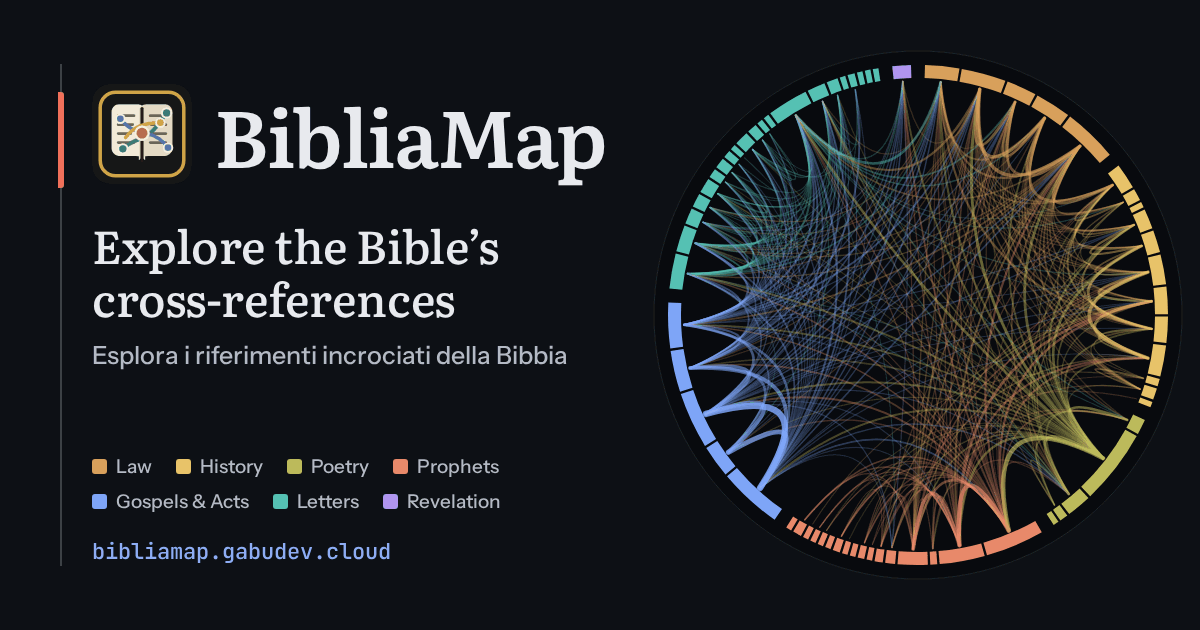
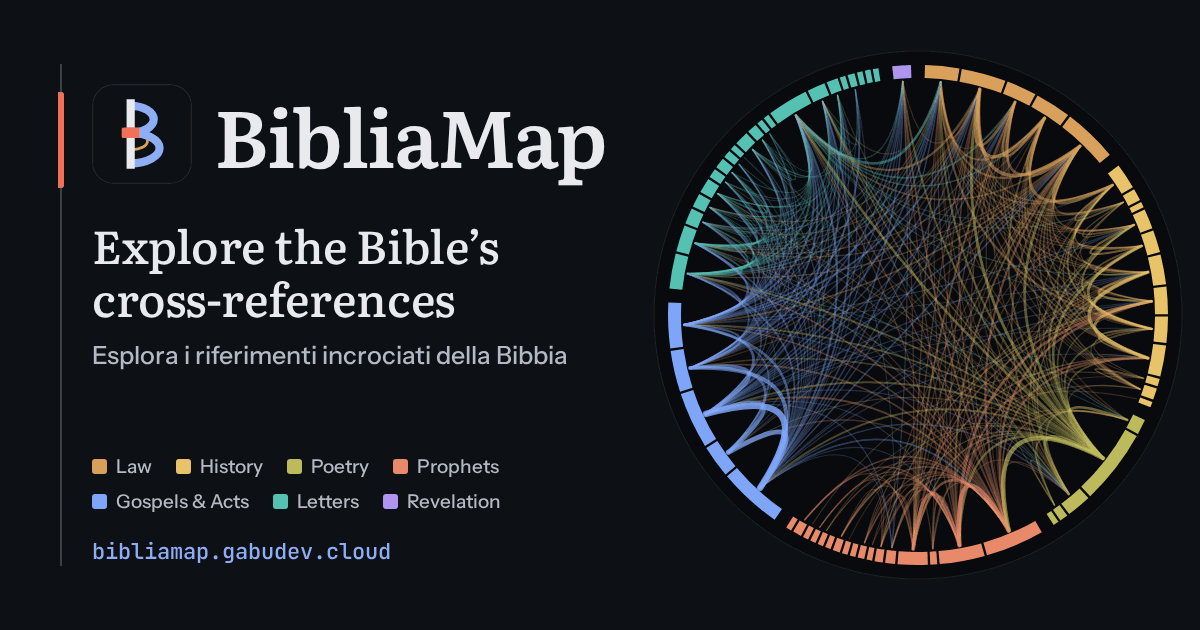
feat(share): add OG image generator to the repo, regenerate with new mark
scripts/og-image holds the generator used for the dark share cards, with
repo-relative paths and documented requirements. Both cards are
regenerated with the new mark.

Changed region(s): [[0.0617, 0.1206, 0.1542, 0.3016]]

diff --git a/scripts/og-image/gen.py b/scripts/og-image/gen.py
@@ -1,0 +1,163 @@
+"""OG cards (1200x630 + 600x600) in the 'Reference Column' dark design.
+Chord diagram from real book-to-book counts, arcs coloured by canon section with section gaps.
+usage: gen.py <book.combined.json> <icon.svg> <frontend/node_modules> <out_dir>   (run.sh passes repo-relative defaults)"""
+import json, math, os, sys
+
+matrix_path, icon_path, nm, out_dir = (os.path.abspath(p) for p in sys.argv[1:5])
+M = json.load(open(matrix_path))
+icon_svg = open(icon_path).read()
+N = len(M)
+
+# Dark values of tokens.css (light-dark(a, b) -> b)
+T = dict(
+    bg="#0d1015", sunken="#080a0e", surface="#151920", ink="#e9ebef", ink2="#b4bac6", ink3="#8a92a1",
+    line="rgba(233,235,239,.10)", line_strong="rgba(233,235,239,.22)",
+    accent="#8faef5", gilt="#e2b44c", rubric="#f0705a",
+)
+SECTIONS = [  # (key, label, colour, first book idx, last idx inclusive) 0-based
+    ("law", "Law", "#d9a05b", 0, 4),
+    ("history", "History", "#e9c46a", 5, 16),
+    ("poetry", "Poetry", "#bdbb5c", 17, 21),
+    ("prophets", "Prophets", "#e98a6b", 22, 38),
+    ("gospels", "Gospels & Acts", "#7fa6f8", 39, 43),
+    ("letters", "Letters", "#56c2b4", 44, 64),
+    ("revelation", "Revelation", "#b095f0", 65, 65),
+]
+sec_of = [0] * N
+for k, (_, _, _, a, b) in enumerate(SECTIONS):
+    for i in range(a, b + 1):
+        sec_of[i] = k
+col_of = lambda i: SECTIONS[sec_of[i]][2]
+
+W = [[(M[i][j] + M[j][i]) if i != j else 0 for j in range(N)] for i in range(N)]
+tot = [sum(r) for r in W]
+grand = sum(tot)
+
+
+def chord_svg(cx, cy, R, n_links, ring=13, book_gap=0.55, sec_gap=3.2):
+    nsec = len(SECTIONS)
+    avail = 2 * math.pi - math.radians(book_gap) * (N - nsec) - math.radians(sec_gap) * nsec
+    raw = [max(t / grand, 0.0045) for t in tot]
+    s = sum(raw)
+    widths = [r / s * avail for r in raw]
+    starts, a = [], -math.pi / 2 + math.radians(sec_gap / 2)
+    for i in range(N):
+        if i > 0:
+            a += math.radians(sec_gap if sec_of[i] != sec_of[i - 1] else book_gap)
+        starts.append(a)
+        a += widths[i]
+    mids = [starts[i] + widths[i] / 2 for i in range(N)]
+    pt = lambda ang, r: (cx + r * math.cos(ang), cy + r * math.sin(ang))
+
+    parts = [f'<circle cx="{cx}" cy="{cy}" r="{R + 14}" fill="{T["sunken"]}"/>',
+             f'<circle cx="{cx}" cy="{cy}" r="{R + 14}" fill="none" stroke="{T["line"]}" stroke-width="1"/>']
+    pairs = sorted(((W[i][j], i, j) for i in range(N) for j in range(i + 1, N) if W[i][j] > 0), reverse=True)[:n_links]
+    maxw = pairs[0][0]
+    rin = R - ring - 3
+    for w, i, j in reversed(pairs):
+        src = i if tot[i] >= tot[j] else j  # colour by the busier book's section
+        t = w / maxw
+        op = 0.12 + 0.72 * t ** 0.55
+        sw = 0.8 + 5.6 * t ** 0.8
+        x1, y1 = pt(mids[i], rin)
+        x2, y2 = pt(mids[j], rin)
+        # control point pulled toward centre; adjacent books bow less
+        d = abs(mids[i] - mids[j]) % (2 * math.pi)
+        d = min(d, 2 * math.pi - d)
+        k = 0.15 + 0.85 * (1 - d / math.pi) ** 2
+        mx, my = (x1 + x2) / 2, (y1 + y2) / 2
+        qx, qy = cx + (mx - cx) * k * 0.6, cy + (my - cy) * k * 0.6
+        parts.append(f'<path d="M{x1:.1f},{y1:.1f} Q{qx:.1f},{qy:.1f} {x2:.1f},{y2:.1f}" stroke="{col_of(src)}" '
+                     f'stroke-opacity="{op:.2f}" stroke-width="{sw:.2f}" fill="none" stroke-linecap="round"/>')
+    for i in range(N):
+        a0, a1 = starts[i], starts[i] + widths[i]
+        x0o, y0o = pt(a0, R); x1o, y1o = pt(a1, R)
+        x0i, y0i = pt(a0, R - ring); x1i, y1i = pt(a1, R - ring)
+        parts.append(f'<path d="M{x0o:.1f},{y0o:.1f} A{R},{R} 0 0 1 {x1o:.1f},{y1o:.1f} L{x1i:.1f},{y1i:.1f} '
+                     f'A{R-ring},{R-ring} 0 0 0 {x0i:.1f},{y0i:.1f}Z" fill="{col_of(i)}"/>')
+    return "\n".join(parts)
+
+
+F = f"{nm}/@fontsource-variable"
+FONTS = f"""
+@font-face{{font-family:'Literata Variable';font-weight:200 900;src:url('file://{F}/literata/files/literata-latin-wght-normal.woff2') format('woff2')}}
+@font-face{{font-family:'Instrument Sans Variable';font-weight:400 700;src:url('file://{F}/instrument-sans/files/instrument-sans-latin-wght-normal.woff2') format('woff2')}}
+@font-face{{font-family:'JetBrains Mono Variable';font-weight:100 800;src:url('file://{F}/jetbrains-mono/files/jetbrains-mono-latin-wght-normal.woff2') format('woff2')}}
+"""
+BASE_CSS = FONTS + f"""
+*{{margin:0;padding:0;box-sizing:border-box}}
+html,body{{background:{T['bg']}}}
+body{{font-family:'Instrument Sans Variable',sans-serif;color:{T['ink']};-webkit-font-smoothing:antialiased}}
+.card{{position:relative;overflow:hidden;background:{T['bg']}}}
+.serif{{font-family:'Literata Variable',serif}}
+.name{{font-family:'Literata Variable',serif;font-weight:600;letter-spacing:-.018em;line-height:1;color:{T['ink']}}}
+.tag{{font-family:'Literata Variable',serif;font-weight:500;line-height:1.15;color:{T['ink']};letter-spacing:-.01em}}
+.sub{{color:{T['ink2']};font-weight:500}}
+.eyebrow{{font-weight:600;letter-spacing:.09em;text-transform:uppercase;color:{T['ink3']}}}
+.eyebrow::before{{content:'';display:inline-block;width:.55em;height:.55em;background:{T['rubric']};transform:rotate(45deg);margin-right:.6em;vertical-align:.12em}}
+.legend{{display:grid;color:{T['ink2']};font-weight:500}}
+.legend span{{white-space:nowrap}}
+.legend i{{display:inline-block;border-radius:3px;margin-right:9px;vertical-align:-1px}}
+.url{{font-family:'JetBrains Mono Variable',monospace;color:{T['accent']};font-weight:500}}
+.ic svg{{display:block;width:100%;height:100%}}
+"""
+
+
+def legend_html(short=False):
+    return "".join(f'<span><i style="background:{c}"></i>{lab.split(" &")[0] if short else lab}</span>' for _, lab, c, _, _ in SECTIONS)
+
+
+def wide():
+    chord = chord_svg(918, 315, 250, 400)
+    return f"""<!doctype html><html><head><meta charset="utf-8"><style>{BASE_CSS}
+.card{{width:1200px;height:630px}}
+svg.chord{{position:absolute;left:0;top:0}}
+.rule{{position:absolute;left:60px;top:64px;bottom:64px;width:2px;background:{T['line_strong']}}}
+.notch{{position:absolute;left:58px;top:92px;width:6px;height:96px;background:{T['rubric']};border-radius:0 3px 3px 0}}
+.left{{position:absolute;left:92px;top:64px;bottom:64px;width:540px;display:flex;flex-direction:column}}
+.brand{{display:flex;align-items:center;gap:22px;margin-top:20px;margin-bottom:34px}}
+.brand .ic{{width:100px;height:100px;flex:none}}
+.name{{font-size:80px}}
+.tag{{font-size:46px;margin-bottom:16px}}
+.sub{{font-size:25px}}
+.legend{{display:flex;flex-wrap:wrap;font-size:19px;gap:12px 24px;width:500px;margin-top:auto;margin-bottom:24px}}
+.legend i{{width:15px;height:15px}}
+.url{{font-size:22px}}
+</style></head><body><div class="card">
+<svg class="chord" width="1200" height="630" viewBox="0 0 1200 630">{chord}</svg>
+<div class="rule"></div><div class="notch"></div>
+<div class="left">
+ <div class="brand"><div class="ic">{icon_svg}</div><div class="name">BibliaMap</div></div>
+ <div class="tag">Explore the Bible’s<br>cross-references</div>
+ <div class="sub">Esplora i riferimenti incrociati della Bibbia</div>
+ <div class="legend">{legend_html()}</div>
+ <div class="url">bibliamap.gabudev.cloud</div>
+</div></div></body></html>"""
+
+
+def square():
+    chord = chord_svg(300, 196, 160, 280, ring=11)
+    return f"""<!doctype html><html><head><meta charset="utf-8"><style>{BASE_CSS}
+.card{{width:600px;height:600px}}
+svg.chord{{position:absolute;left:0;top:0}}
+.ic{{position:absolute;left:260px;top:156px;width:80px;height:80px;border-radius:18px;box-shadow:0 0 0 6px {T['sunken']}}}
+.notch{{position:absolute;left:280px;top:386px;width:40px;height:4px;background:{T['rubric']};border-radius:2px}}
+.bottom{{position:absolute;left:0;right:0;top:402px;text-align:center}}
+.name{{font-size:58px;margin-bottom:8px}}
+.tag{{font-size:25px}}
+.legend{{display:flex;justify-content:center;flex-wrap:wrap;font-size:14px;gap:6px 14px;position:absolute;left:24px;right:24px;top:514px}}
+.legend i{{width:11px;height:11px;margin-right:6px;vertical-align:0}}
+.url{{position:absolute;left:0;right:0;bottom:22px;text-align:center;font-size:17px}}
+</style></head><body><div class="card">
+<svg class="chord" width="600" height="600" viewBox="0 0 600 600">{chord}</svg>
+<div class="ic">{icon_svg}</div>
+<div class="notch"></div>
+<div class="bottom"><div class="name">BibliaMap</div><div class="tag">Explore the Bible’s cross-references</div></div>
+<div class="legend">{legend_html(True)}</div>
+<div class="url">bibliamap.gabudev.cloud</div>
+</div></body></html>"""
+
+
+open(f"{out_dir}/wide.html", "w").write(wide())
+open(f"{out_dir}/square.html", "w").write(square())
+print("pairs", sum(1 for i in range(N) for j in range(i + 1, N) if W[i][j] > 0), "refs", grand // 2)

diff --git a/scripts/og-image/quant.py b/scripts/og-image/quant.py
@@ -1,0 +1,6 @@
+import sys
+from PIL import Image
+for src, dst in zip(sys.argv[1::2], sys.argv[2::2]):
+    im = Image.open(src).convert("RGB")
+    q = im.quantize(colors=256, method=Image.Quantize.FASTOCTREE, dither=Image.Dither.FLOYDSTEINBERG)
+    q.save(dst, optimize=True)

diff --git a/scripts/og-image/README.md b/scripts/og-image/README.md
@@ -1,0 +1,57 @@
+# Open Graph image generator
+
+Builds the share cards in the dark "Reference Column" design:
+
+- `frontend/public/og-image.png` — 1200×630 (Open Graph / Twitter `summary_large_image`)
+- `frontend/public/og-image-square.png` — 600×600 (WhatsApp and other square previews)
+
+The chord diagram is drawn from the real book-to-book reference counts, arcs coloured by canon
+section; the mark is `frontend/public/bibliamap-icon.svg`, inlined.
+
+```bash
+# from the repo root
+(cd frontend && npm ci)        # fonts
+scripts/og-image/run.sh
+```
+
+Then **bump `?v=`** on the `og:image` / `twitter:image` URLs in `frontend/index.html` — WhatsApp and
+Facebook cache previews by URL.
+
+## Pipeline
+
+| Step | File | What it does |
+| --- | --- | --- |
+| 1 | `gen.py` | Reads the matrix and the icon, writes `wide.html` and `square.html` (self-contained, fonts by `file://` URL) into a work directory. Standard library only. |
+| 2 | `shot.mjs` | Screenshots both pages with headless Chromium at 1× into `wide.png` / `square.png`. |
+| 3 | `quant.py` | Quantises to a 256-colour palette (Floyd–Steinberg) and writes the optimised PNGs into `frontend/public/`. Cuts the files to roughly a quarter of the full-colour size. |
+
+`run.sh` runs the three steps with repo-relative paths.
+
+## Requirements
+
+- **Python 3** with **Pillow** (`pip install Pillow`) — for `quant.py`. `gen.py` needs no packages.
+- **Node 20+** and **Playwright with Chromium** — for `shot.mjs`. Playwright is not a dependency of
+  the app; install it next to the scripts (ignored by git) or point `PLAYWRIGHT_FROM` at a
+  directory that has it:
+
+  ```bash
+  npm install --prefix scripts --no-save playwright && npx --prefix scripts playwright install chromium
+  # or
+  PLAYWRIGHT_FROM=~/tools/pw scripts/og-image/run.sh
+  ```
+
+- **Fonts** from `frontend/node_modules/@fontsource-variable/{literata,instrument-sans,jetbrains-mono}`
+  — run `npm ci` in `frontend/` first.
+- **Data**: `frontend/public/generated/<dataset>/matrices/book.combined.json` (committed).
+
+## Options (environment variables)
+
+| Variable | Default | Meaning |
+| --- | --- | --- |
+| `PYTHON` | `python3` | Interpreter with Pillow, e.g. `PYTHON=.venv/bin/python` |
+| `DATASET` | `nwtsty` | Which dataset's book matrix feeds the chord diagram |
+| `WORK` | `mktemp -d` | Where the intermediate HTML and full-colour PNGs go |
+| `PLAYWRIGHT_FROM` | — | Directory to resolve `playwright` from |
+
+Colours in `gen.py` (`T` and `SECTIONS`) are the dark-theme values of
+`frontend/src/styles/tokens.css`; update them together.
